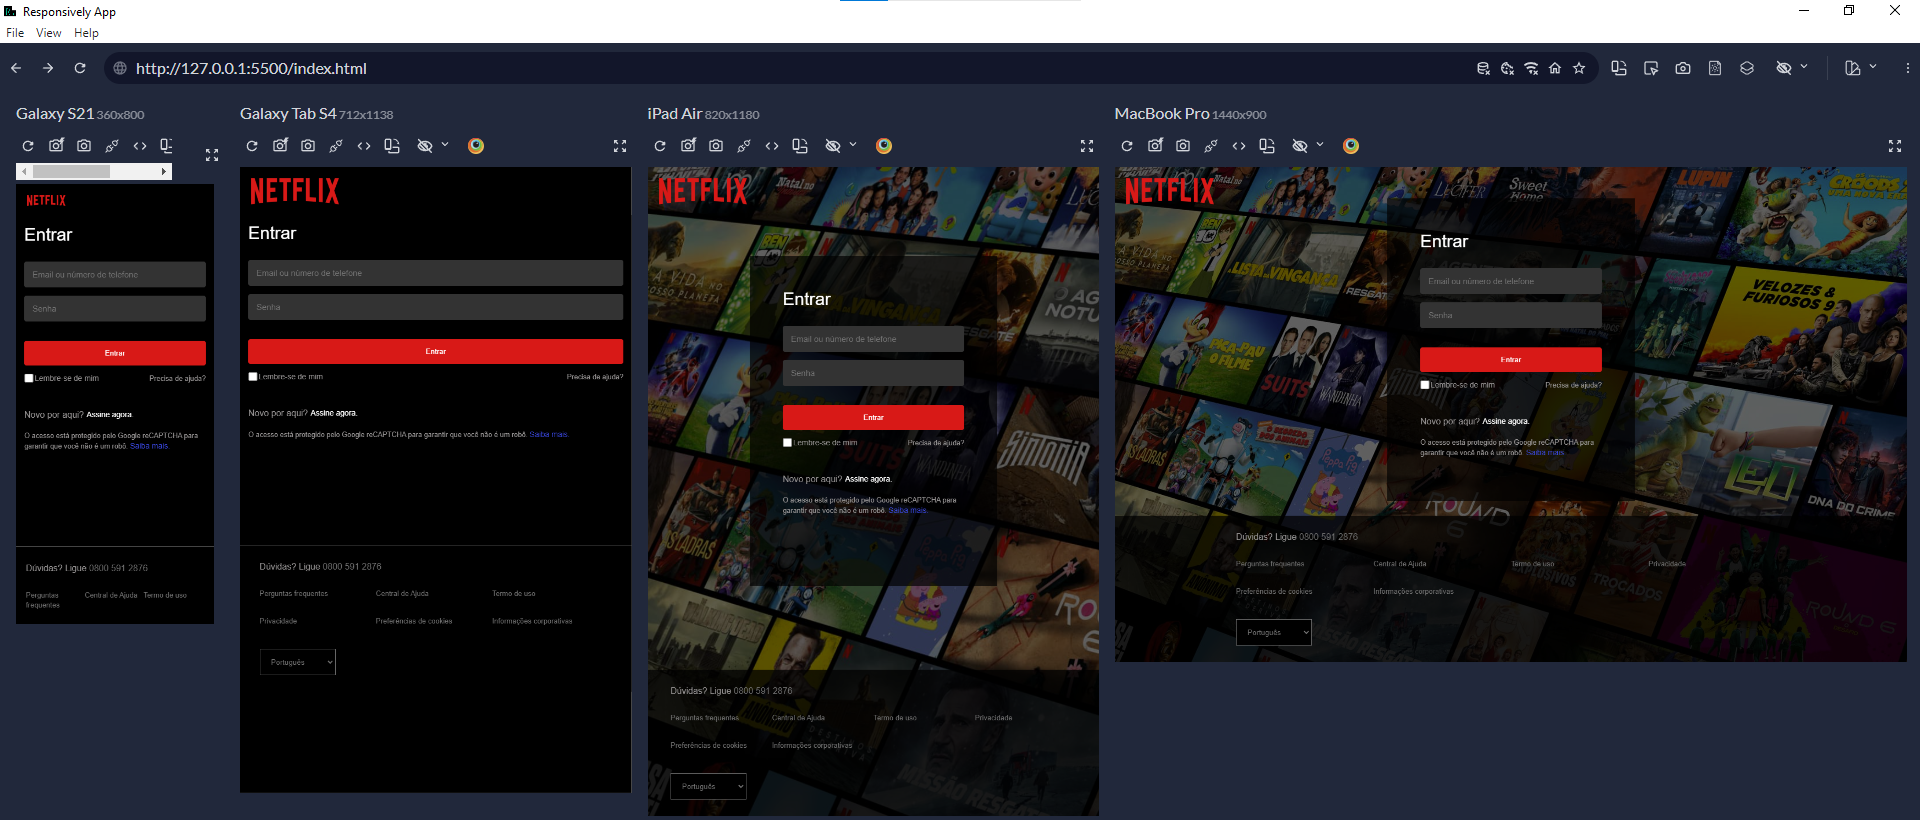
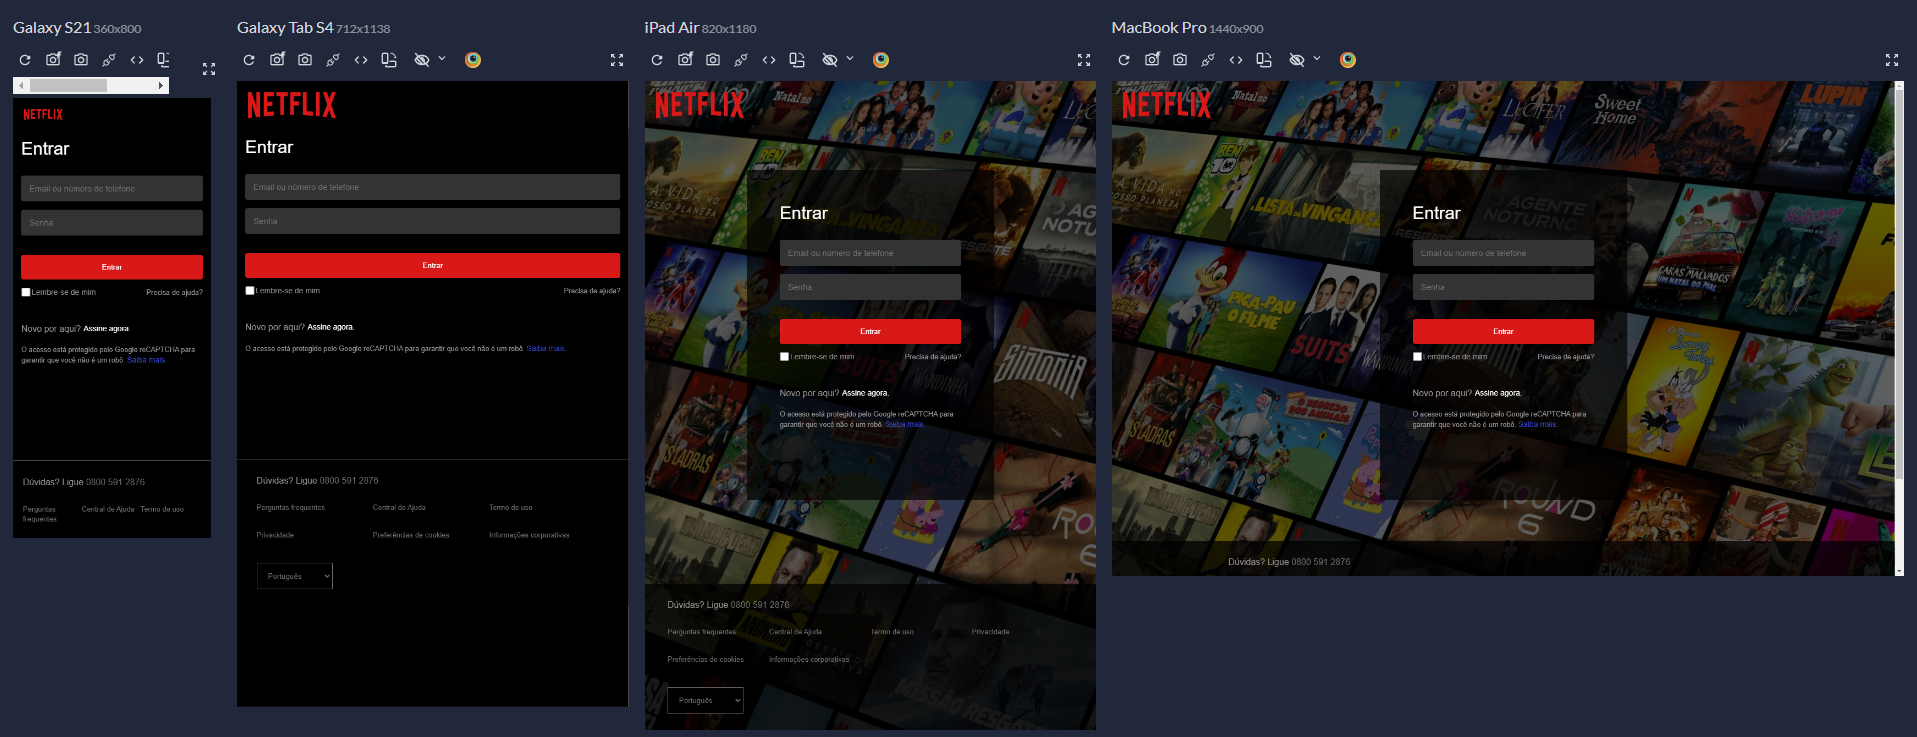
fix na altura do body para dar mais espaçamento entre o container e o body

diff --git a/assets/css/styles.css b/assets/css/styles.css
@@ -7,9 +7,11 @@
 html,
 body {
   width: 100%;
-  height: 100%;
+  height: 1102px;
+  min-height: 100vh;
   font-family: Arial, Helvetica, sans-serif;
 }
+/* foi ajustado a altura do body para dar mais espaçamento entre o conteúdo principal e o footer */
 
 body {
   background-image: url("https://assets.nflxext.com/ffe/siteui/vlv3/b4c7f092-0488-48b7-854d-ca055a84fb4f/127386bd-018c-442b-8263-bb26b9b42f37/BR-pt-20231204-popsignuptwoweeks-perspective_alpha_website_large.jpg");
@@ -263,12 +265,5 @@ footer {
 
   .links li {
     width: 33%;
-  }
-}
-
-@media (min-width: 1000px) {
-  .container {
-    margin-top: 0px;
-    height: 550px;
   }
 }
